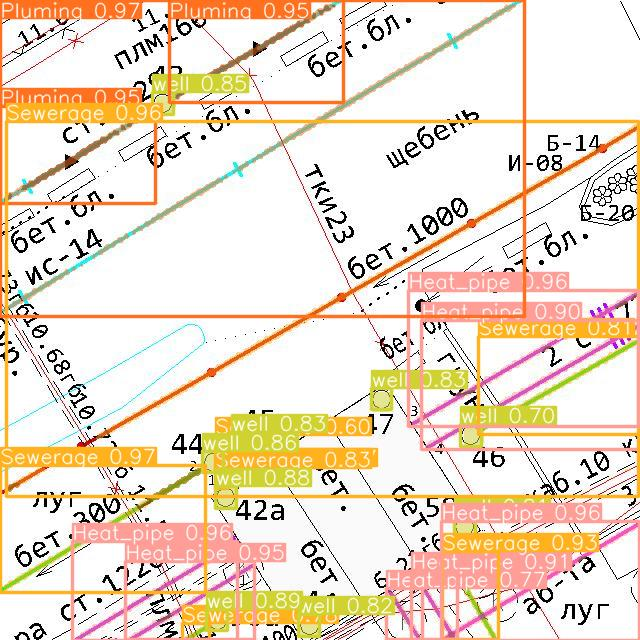
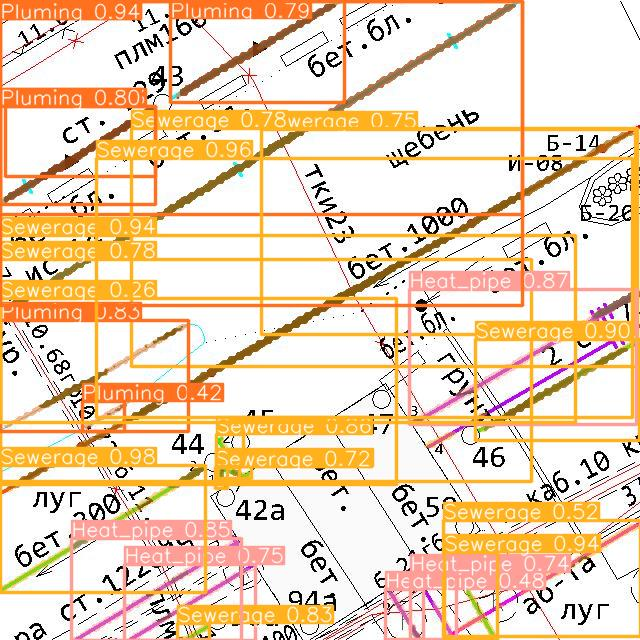
проверка png датасета

diff --git a/04_segment/01_Ultralytics/train_seg.py b/04_segment/01_Ultralytics/train_seg.py
@@ -15,7 +15,7 @@ def main():
     # название текущей сессии
     task = Task.init(
         project_name="AutoCAD_segment",
-        task_name="TEST 3.v2"
+        task_name="png_pipe_4cls.v1"
         )
 
     # ClearML; Определение модели на которой будет происходить обучение
@@ -24,7 +24,7 @@ def main():
 
     model = YOLO('yolov8l-seg.pt')
 
-    args = dict(data='datasets/TEST 3.v2/data.yaml',
+    args = dict(data='datasets/png_pipe_4cls.v1/data.yaml',
                 epochs=120,
                 imgsz=640,
                 freeze=10,

diff --git a/04_segment/01_Ultralytics/segment.py b/04_segment/01_Ultralytics/segment.py
@@ -3,7 +3,7 @@ from ultralytics import YOLO
 from PIL import Image
 
 # Load a model
-model = YOLO('C:\\Repos\\Ayrapetov\\07_AI_project\\04_segment\\01_Ultralytics\\runs\\segment\\train28\\weights\\best.pt')  # load a pretrained model
+model = YOLO('C:\\Repos\\Ayrapetov\\07_AI_project\\04_segment\\01_Ultralytics\\runs\\segment\\train29\\weights\\best.pt')  # load a pretrained model
 
 # Путь к папке с изображениями
 pth_raw = 'C:\\Repos\\Ayrapetov\\07_AI_project\\02_mark\\images'
